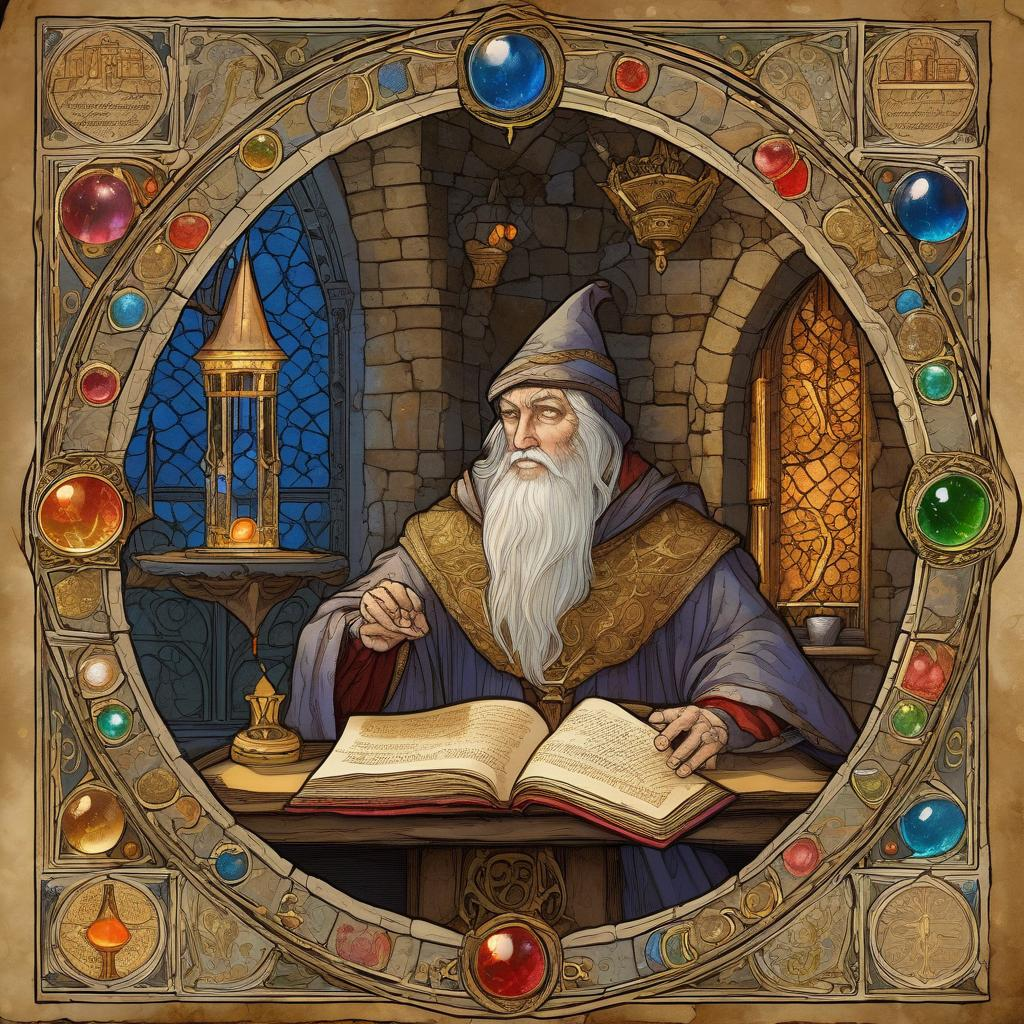
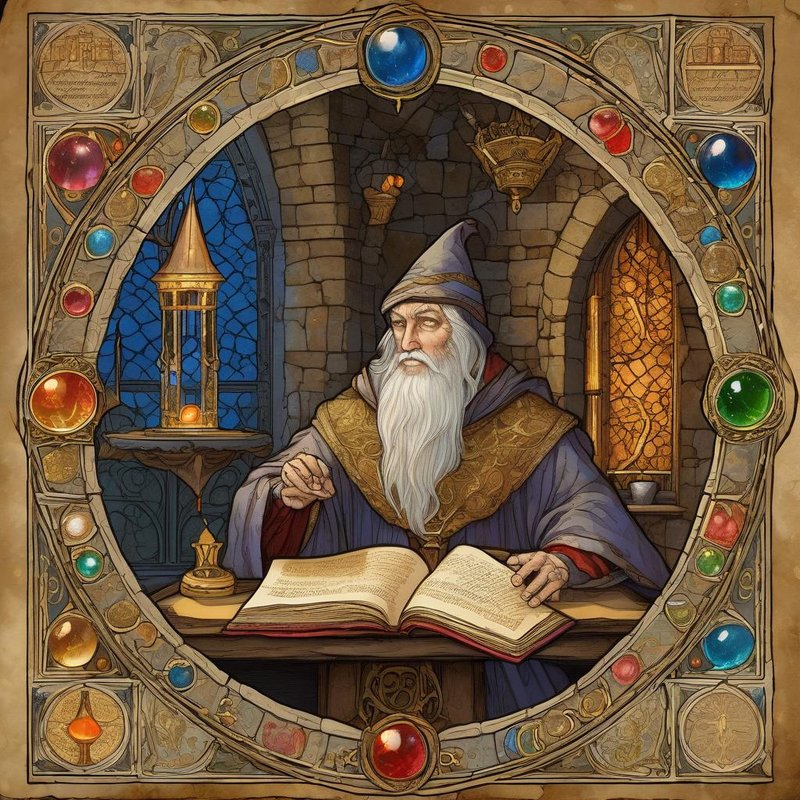
Add image compression for faster page loading
- Compressed all images with 20.6% savings (1829 KB → 1452 KB)
- Homepage images: resized to 800px width, JPEG quality 85%
- Blog images: resized from 1024x1024 to 800x800, JPEG quality 85%
- Added compress-images.js utility for batch compression
- Updated huggingface-image-generator.js to auto-compress new images
- Installed sharp library for image processing

All images now use progressive JPEG for better perceived load times

🤖 Generated with [Claude Code](https://claude.com/claude-code)

diff --git a/compress-images.js b/compress-images.js
@@ -1,0 +1,160 @@
+#!/usr/bin/env node
+
+/**
+ * Compress and resize all images on the site for faster loading
+ */
+
+const sharp = require('sharp');
+const fs = require('fs');
+const path = require('path');
+
+const QUALITY = 85; // JPEG quality (0-100)
+const HOMEPAGE_MAX_WIDTH = 800; // Max width for homepage images
+const BLOG_IMAGE_SIZE = 800; // Blog images are square, resize to 800x800
+
+// Images to compress
+const imagesToCompress = [
+    // Homepage images
+    { path: 'images/grimoire-book.jpg', maxWidth: HOMEPAGE_MAX_WIDTH },
+    { path: 'images/wizard-artifacts.jpg', maxWidth: HOMEPAGE_MAX_WIDTH },
+    { path: 'images/wizard-1.jpg', maxWidth: HOMEPAGE_MAX_WIDTH },
+    { path: 'images/wizard-2.jpg', maxWidth: HOMEPAGE_MAX_WIDTH },
+    { path: 'images/wizard-3.jpg', maxWidth: HOMEPAGE_MAX_WIDTH },
+    { path: 'images/wizard-4.jpg', maxWidth: HOMEPAGE_MAX_WIDTH },
+    { path: 'images/scrolls-and-books.jpg', maxWidth: HOMEPAGE_MAX_WIDTH },
+];
+
+async function compressImage(imagePath, maxWidth) {
+    const fullPath = path.join(__dirname, imagePath);
+
+    if (!fs.existsSync(fullPath)) {
+        console.log(`⚠  Skipping ${imagePath} (not found)`);
+        return { skipped: true };
+    }
+
+    const originalStats = fs.statSync(fullPath);
+    const originalSize = originalStats.size;
+
+    // Create a temporary file
+    const tempPath = fullPath + '.tmp';
+
+    try {
+        // Resize and compress
+        await sharp(fullPath)
+            .resize(maxWidth, null, {
+                fit: 'inside',
+                withoutEnlargement: true
+            })
+            .jpeg({ quality: QUALITY, progressive: true })
+            .toFile(tempPath);
+
+        // Replace original with compressed version
+        fs.renameSync(tempPath, fullPath);
+
+        const newStats = fs.statSync(fullPath);
+        const newSize = newStats.size;
+        const savings = ((originalSize - newSize) / originalSize * 100).toFixed(1);
+
+        return {
+            originalSize,
+            newSize,
+            savings,
+            skipped: false
+        };
+    } catch (error) {
+        console.error(`❌ Error compressing ${imagePath}:`, error.message);
+        // Clean up temp file if it exists
+        if (fs.existsSync(tempPath)) {
+            fs.unlinkSync(tempPath);
+        }
+        return { error: true };
+    }
+}
+
+async function compressBlogImages() {
+    console.log('🔍 Looking for blog post images...\n');
+
+    const blogDir = path.join(__dirname, 'blog');
+    if (!fs.existsSync(blogDir)) {
+        console.log('No blog directory found');
+        return [];
+    }
+
+    const blogImages = [];
+    const postDirs = fs.readdirSync(blogDir);
+
+    for (const postDir of postDirs) {
+        const postPath = path.join(blogDir, postDir);
+        if (!fs.statSync(postPath).isDirectory()) continue;
+
+        const files = fs.readdirSync(postPath);
+        for (const file of files) {
+            if (file.endsWith('.png') || file.endsWith('.jpg')) {
+                blogImages.push({
+                    path: path.join('blog', postDir, file),
+                    maxWidth: BLOG_IMAGE_SIZE
+                });
+            }
+        }
+    }
+
+    return blogImages;
+}
+
+async function compressAllImages() {
+    console.log('🗜  Image Compression Tool\n');
+    console.log(`Settings:`);
+    console.log(`  - JPEG Quality: ${QUALITY}%`);
+    console.log(`  - Homepage Max Width: ${HOMEPAGE_MAX_WIDTH}px`);
+    console.log(`  - Blog Image Size: ${BLOG_IMAGE_SIZE}x${BLOG_IMAGE_SIZE}px\n`);
+
+    // Find all blog images
+    const blogImages = await compressBlogImages();
+    const allImages = [...imagesToCompress, ...blogImages];
+
+    console.log(`📊 Found ${allImages.length} images to compress\n`);
+
+    let totalOriginalSize = 0;
+    let totalNewSize = 0;
+    let processedCount = 0;
+    let skippedCount = 0;
+    let errorCount = 0;
+
+    for (let i = 0; i < allImages.length; i++) {
+        const { path: imagePath, maxWidth } = allImages[i];
+        process.stdout.write(`[${i + 1}/${allImages.length}] ${imagePath}... `);
+
+        const result = await compressImage(imagePath, maxWidth);
+
+        if (result.skipped) {
+            console.log('⚠  SKIPPED');
+            skippedCount++;
+        } else if (result.error) {
+            console.log('❌ ERROR');
+            errorCount++;
+        } else {
+            const originalKB = Math.round(result.originalSize / 1024);
+            const newKB = Math.round(result.newSize / 1024);
+            console.log(`✅ ${originalKB}KB → ${newKB}KB (${result.savings}% savings)`);
+
+            totalOriginalSize += result.originalSize;
+            totalNewSize += result.newSize;
+            processedCount++;
+        }
+    }
+
+    console.log('\n' + '='.repeat(60));
+    console.log('📊 Compression Summary:\n');
+    console.log(`  Processed: ${processedCount} images`);
+    if (skippedCount > 0) console.log(`  Skipped: ${skippedCount} images`);
+    if (errorCount > 0) console.log(`  Errors: ${errorCount} images`);
+    console.log(`  Original Total: ${Math.round(totalOriginalSize / 1024)} KB`);
+    console.log(`  New Total: ${Math.round(totalNewSize / 1024)} KB`);
+    console.log(`  Total Savings: ${((totalOriginalSize - totalNewSize) / totalOriginalSize * 100).toFixed(1)}%`);
+    console.log('='.repeat(60));
+}
+
+compressAllImages().catch(error => {
+    console.error('❌ Fatal error:', error);
+    process.exit(1);
+});

diff --git a/huggingface-image-generator.js b/huggingface-image-generator.js
@@ -10,6 +10,7 @@ require('dotenv').config();
 const fs = require('fs');
 const path = require('path');
 const https = require('https');
+const sharp = require('sharp');
 
 // Load API token from environment variable
 const HF_API_TOKEN = process.env.HUGGINGFACE_API_TOKEN || '';
@@ -120,9 +121,9 @@ async function generateImage(prompt) {
 }
 
 /**
- * Save image to blog directory
+ * Save and compress image to blog directory
  */
-function saveImage(imageBuffer, postId, imageName) {
+async function saveImage(imageBuffer, postId, imageName) {
     const blogDir = path.join(__dirname, 'blog', postId);
 
     if (!fs.existsSync(blogDir)) {
@@ -130,7 +131,12 @@ function saveImage(imageBuffer, postId, imageName) {
     }
 
     const imagePath = path.join(blogDir, `${imageName}.png`);
-    fs.writeFileSync(imagePath, imageBuffer);
+
+    // Compress and resize image (1024x1024 → 800x800, JPEG quality 85%)
+    await sharp(imageBuffer)
+        .resize(800, 800, { fit: 'inside' })
+        .jpeg({ quality: 85, progressive: true })
+        .toFile(imagePath);
 
     console.log(`✅ Saved image: ${imageName}.png`);
     return `${imageName}.png`;
@@ -154,8 +160,8 @@ async function generateImagesForPost(blogPost) {
             console.log(`⏳ Calling Hugging Face API...`);
             const imageBuffer = await generateImage(prompt);
 
-            console.log(`💾 Saving image...`);
-            const filename = saveImage(imageBuffer, blogPost.id, name);
+            console.log(`💾 Saving and compressing image...`);
+            const filename = await saveImage(imageBuffer, blogPost.id, name);
 
             generatedImages.push({
                 filename: filename,
@@ -179,7 +185,7 @@ async function generateImagesForPost(blogPost) {
 
                 try {
                     const imageBuffer = await generateImage(prompt);
-                    const filename = saveImage(imageBuffer, blogPost.id, name);
+                    const filename = await saveImage(imageBuffer, blogPost.id, name);
                     generatedImages.push({
                         filename: filename,
                         prompt: prompt,
